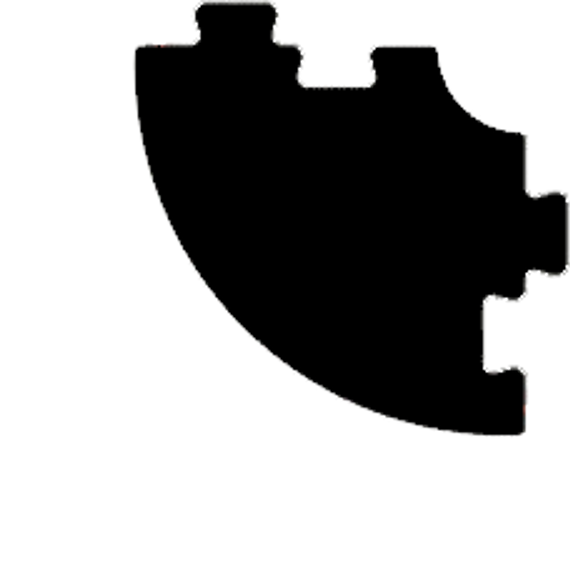
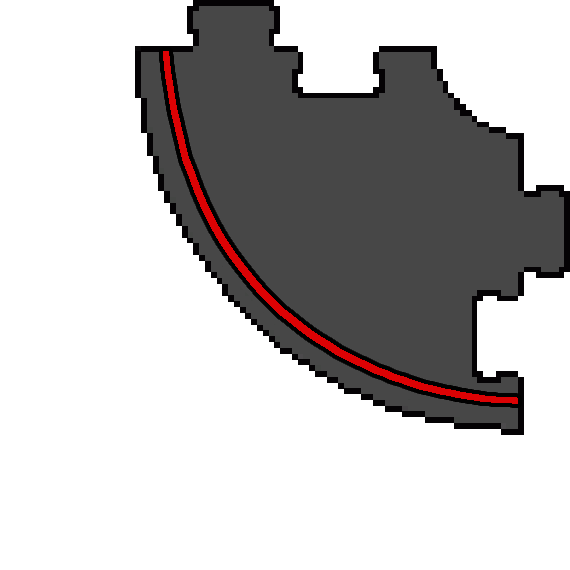
Update track tiles

diff --git a/lib/track_image.rb b/lib/track_image.rb
@@ -4,7 +4,7 @@ module Pitchcar
   class TrackImage
     attr_accessor :track
     TILE_SIZE = 570
-    OFFSET_SIZE = -46
+    OFFSET_SIZE = -50
     TITLE_OFFSET = 200
     BLANK_TILE = Magick::Image.new(TILE_SIZE, TILE_SIZE) { |canvas| canvas.background_color = 'white' }
 
